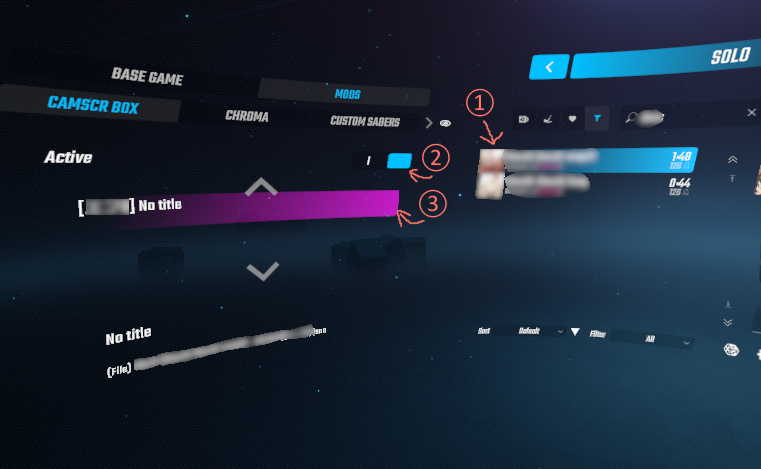
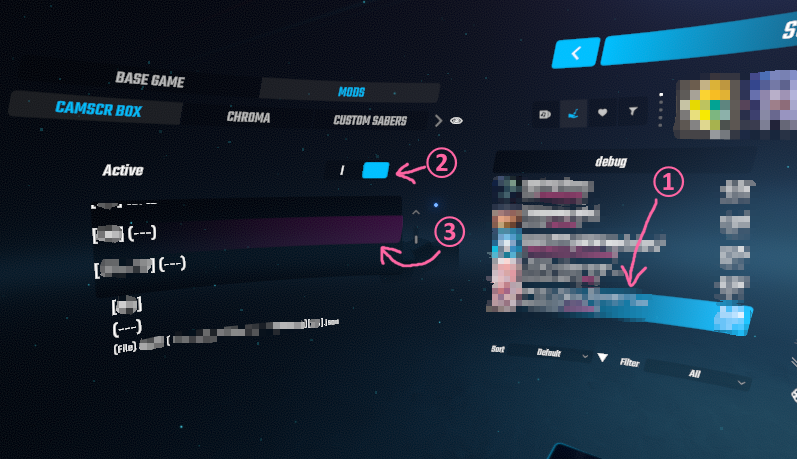
improve UI

diff --git a/CameraPlusMovementScriptBox/View/SongMenuViewController.cs b/CameraPlusMovementScriptBox/View/SongMenuViewController.cs
@@ -72,7 +72,7 @@ namespace CameraPlusMovementScriptBox.View
 			{
 				get
 				{
-					var title = string.IsNullOrEmpty(ScriptDef?.Title) ? "No title" : ScriptDef!.Title;
+					var title = string.IsNullOrEmpty(ScriptDef?.Title) ? "(---)" : ScriptDef!.Title;
 					return $"[{ScriptDef?.Author}] {title}";
 				}
 			}
@@ -150,12 +150,12 @@ namespace CameraPlusMovementScriptBox.View
 				set => SetProperty(ref baseInfo, value);
 			}
 
-			private string? author;
-			[UIValue("author")]
-			public string? Author
+			private string? scriptAuthor;
+			[UIValue("script-author")]
+			public string? ScriptAuthor
 			{
-				get => author;
-				set => SetProperty(ref author, value);
+				get => scriptAuthor;
+				set => SetProperty(ref scriptAuthor, value);
 			}
 
 			private string? fileType;
@@ -265,15 +265,15 @@ namespace CameraPlusMovementScriptBox.View
 			{
 				if (selectedScript == null)
 				{
-					Author = null;
+					ScriptAuthor = null;
 					ScriptTitle = null;
 					BaseInfo = null;
 					Description = null;
 				}
 				else
 				{
-					Author = $"[{selectedScript?.Author}]";
-					ScriptTitle = string.IsNullOrEmpty(selectedScript?.Title) ? "---" : selectedScript?.Title;
+					ScriptAuthor = $"[{selectedScript?.Author}]";
+					ScriptTitle = string.IsNullOrEmpty(selectedScript?.Title) ? "(---)" : selectedScript?.Title;
 					var fileType = selectedScript != null
 						? (selectedScript.IsDirectFile ? "File" : "Folder")
 						: null;

diff --git a/CameraPlusMovementScriptBox/Core/MovementScriptLoader.cs b/CameraPlusMovementScriptBox/Core/MovementScriptLoader.cs
@@ -34,7 +34,7 @@ namespace CameraPlusMovementScriptBox.Core
 				{
 					return null;
 				}
-				var title = GetGroup(match, "title", true) ?? "No title";
+				var title = GetGroup(match, "title", true) ?? string.Empty;
 				var bsr = (GetGroup(match, "bsr", false) ?? "0").ToLower();
 				var author = GetGroup(match, "author", true);
 				return new(
@@ -95,7 +95,7 @@ namespace CameraPlusMovementScriptBox.Core
 					return null;
 				}
 
-				var title = info.Title ?? "No title";
+				var title = info.Title ?? string.Empty;
 				var bsr = string.IsNullOrEmpty(info.Bsr) ? null : info.Bsr!.Trim();
 				var songHash = string.IsNullOrEmpty(info.SongHash) ? null : info.SongHash!.Trim();
 				if (bsr == null && songHash == null)
